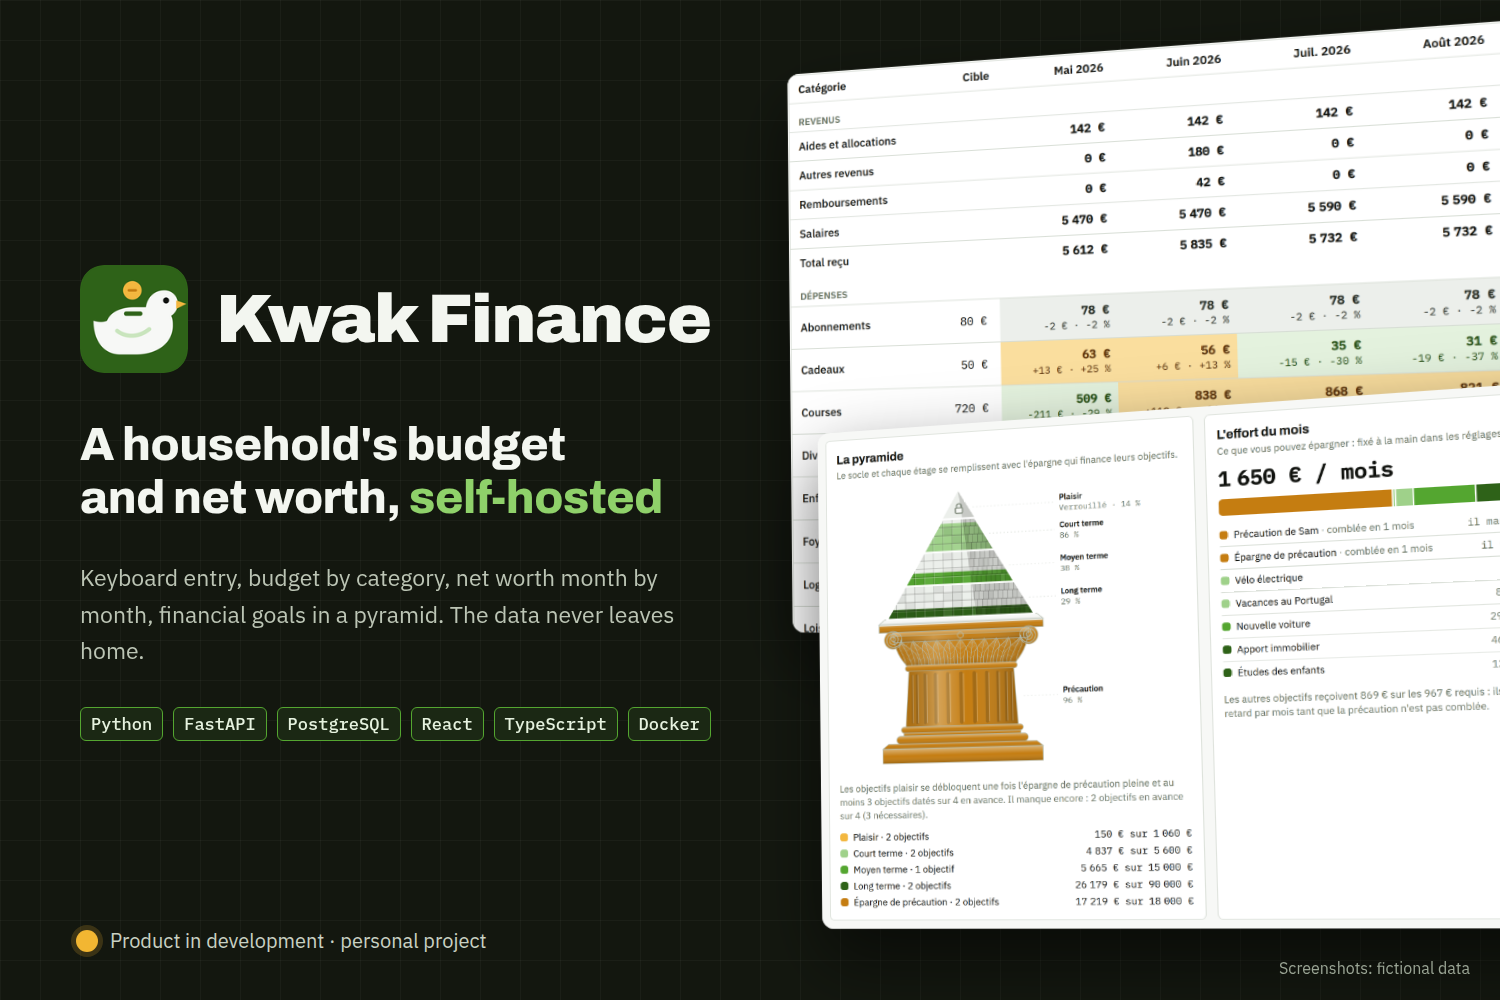
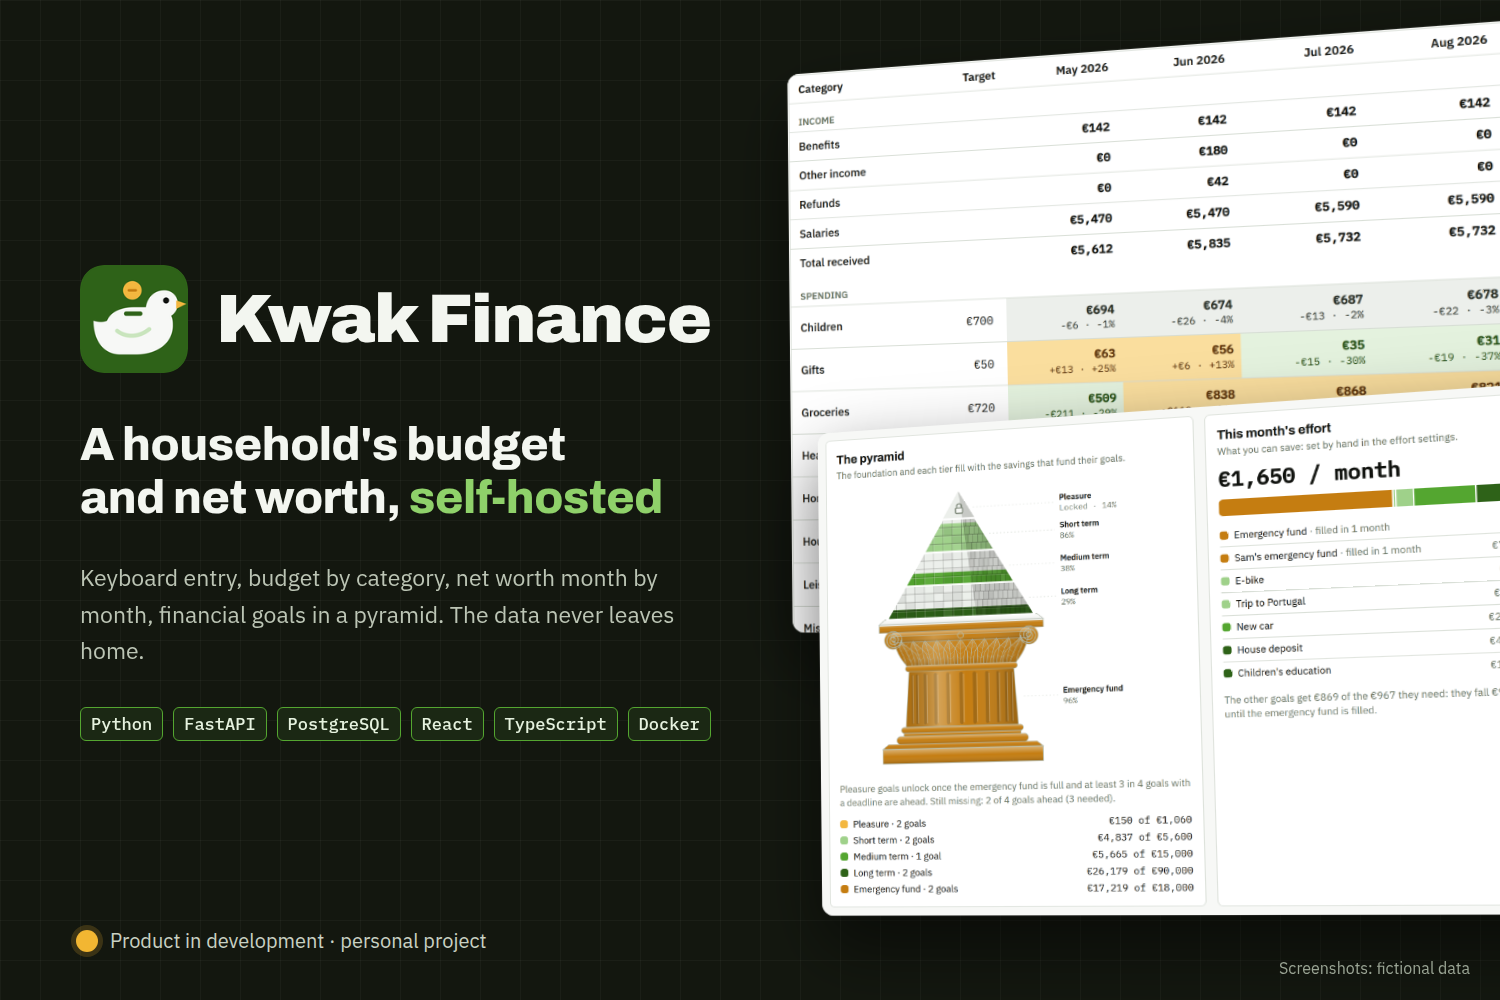
Illustre la fiche Kwak Finance EN avec des captures de l'interface anglaise

diff --git a/content/projects/kwak-finance/index.en.md b/content/projects/kwak-finance/index.en.md
@@ -41,7 +41,7 @@ tests included.
 {{< alert icon="image" >}}
 **Every screenshot shows fictional data.** They come from a demo instance, filled with an
 invented household (Camille and Sam, ten months of spending, two years of net worth, nine goals).
-No amount, label or balance comes from real accounts. The interface is shown in French.
+No amount, label or balance comes from real accounts.
 {{< /alert >}}
 
 ## The problem
@@ -138,7 +138,7 @@ Net worth and goals can then be read at the level of the **household**, the **jo
 **my lines**. The app is arranged in three spaces, **Spending**, **Wealth** and **Goals**; the
 overview, at the top, sums up all three.
 
-![The October overview](vue-ensemble.webp "October for the whole household: net worth and its change, the progress of each tier of the pyramid, then the month's figures. Fictional data.")
+![The October overview](vue-ensemble-en.webp "October for the whole household: net worth and its change, the progress of each tier of the pyramid, then the month's figures. Fictional data.")
 
 ### Quick entry, at the keyboard
 
@@ -146,8 +146,8 @@ The spending space's main page is a **grid**: one month, its lines, every cell e
 An empty row always waits at the bottom; Tab moves to the next cell, Enter saves and opens a new
 row with the same date. Everything works without the mouse.
 
-Above it, a **quick line** takes an expense typed in any order: `boulangerie 12,50 hier`,
-`45 sncf 13/10` or `carrefour 87.40 #foyer`.
+Above it, a **quick line** takes an expense typed in any order: `bakery 12.50 yesterday`,
+`45 train 13/10` or `groceries 87.40 #home`.
 
 - the date is recognised ("yesterday", a weekday, `dd/mm`);
 - the amount is the last number, the others stay in the label;
@@ -155,17 +155,17 @@ Above it, a **quick line** takes an expense typed in any order: `boulangerie 12,
 - the rest is the label, and its category comes from the **label memory**: picking a label
   already used brings back the category of its latest line.
 
-![The spending grid and the quick line](grille.webp "The quick line has understood « cinéma 24,50 vendredi #loisirs » before it is even saved; below, the fixed expenses to confirm, greyed, then the month's lines. Fictional data.")
+![The spending grid and the quick line](grille-en.webp "The quick line has understood “cinema 24.50 friday #leisure” before it is even saved; below, the fixed expenses to confirm, greyed, then the month's lines. Fictional data.")
 
 A header recalls the last line entered and when, and a dot marks it in the grid, to pick up where
 you stopped.
 
-![The end of the grid](derniere-saisie.webp "The green dot marks the last line entered; the empty row waits for the next one, with the same date. Fictional data.")
+![The end of the grid](derniere-saisie-en.webp "The green dot marks the last line entered; the empty row waits for the next one, with the same date. Fictional data.")
 
 A line can also be **split** across several categories: the last part takes the rest, so the sum
 always comes out exact.
 
-![A split line](ventilation.webp "A hypermarket run: €88.51 of groceries, the rest (€36) for the home. Fictional data.")
+![A split line](ventilation-en.webp "A hypermarket run: €88.51 of groceries, the rest (€36) for the home. Fictional data.")
 
 ### Categories of three kinds
 
@@ -186,11 +186,11 @@ back every month, quarter or year. Each occurrence due shows greyed at the top o
 grid. Enter confirms it and creates the line, editable first; it can also be skipped for the
 month. Nothing is ever created by itself.
 
-![The list of fixed expenses](depenses-fixes.webp "Rent, the childminder, subscriptions: each fixed expense with its frequency, day and category. Fictional data.")
+![The list of fixed expenses](depenses-fixes-en.webp "Rent, the childminder, subscriptions: each fixed expense with its frequency, day and category. Fictional data.")
 
 The overview lists what is still to confirm and the **projected rest** at the end of the month.
 
-![Fixed expenses still to confirm](a-confirmer.webp "Three October occurrences still to confirm, and the projected rest once they are paid. Fictional data.")
+![Fixed expenses still to confirm](a-confirmer-en.webp "Three October occurrences still to confirm, and the projected rest once they are paid. Fictional data.")
 
 ### Monthly targets
 
@@ -204,11 +204,11 @@ past months keep theirs. A savings category gets a minimum to reach.
 - **the year**: the targets to date and for the whole year, the gap, and how many months were
   over, on or under target.
 
-![The month so far](mois-en-cours.webp "On 24 October: transport and shopping have overrun their target; the vertical mark shows the share of the month elapsed, and rent, paid in one go, is not judged against the pace. Fictional data.")
+![The month so far](mois-en-cours-en.webp "On 24 October: transport and shopping have overrun their target; the vertical mark shows the share of the month elapsed, and rent, paid in one go, is not judged against the pace. Fictional data.")
 
-![The budget matrix](budget-matrice.webp "Six months of budget: income received at the top, then each category against its target. Green: under; grey: within ±5 %; orange: over. Fictional data.")
+![The budget matrix](budget-matrice-en.webp "Six months of budget: income received at the top, then each category against its target. Green: under; grey: within ±5 %; orange: over. Fictional data.")
 
-![The year view](budget-annee.webp "2026 to date: cumulated target, spent, gap, and how many months were over, on and under target. Fictional data.")
+![The year view](budget-annee-en.webp "2026 to date: cumulated target, spent, gap, and how many months were over, on and under target. Fictional data.")
 
 ### Reports over any period
 
@@ -216,22 +216,22 @@ A month, a quarter, a year or any period up to ten years, compared with the **pr
 the same length**. A running period stops at the current month: "this year" is compared with the
 same months last year, not with a whole year.
 
-![A report's totals and breakdown](rapport.webp "September against August: the totals, then each category with its average, its share and its change. Fictional data.")
+![A report's totals and breakdown](rapport-en.webp "September against August: the totals, then each category with its average, its share and its change. Fictional data.")
 
 A report also gives a monthly chart stacked by category, spending accumulated day by day, and the
 period's **money flows**: income on the left; spending, savings and the unallocated rest on the
 right, both sides always adding up to the same total.
 
-![Spending month by month](rapport-mois.webp "2026 month by month: the six largest categories in colour, the others in grey, against the income line. Fictional data.")
+![Spending month by month](rapport-mois-en.webp "2026 month by month: the six largest categories in colour, the others in grey, against the income line. Fictional data.")
 
-![The year's money flows](rapport-flux.webp "2026's flows: salaries and benefits on the left; each category, savings and the unallocated rest on the right. Fictional data.")
+![The year's money flows](rapport-flux-en.webp "2026's flows: salaries and benefits on the left; each category, savings and the unallocated rest on the right. Fictional data.")
 
 ### Net worth, month by month
 
 Net worth is tracked as in a spreadsheet: one line per holding, filed in a category, one column per
 month, and a value entered by hand once a month.
 
-![The net-worth matrix](patrimoine-matrice.webp "Monthly tracking: net worth, gross assets and debts, then the lines by category and each one's share. Fictional data.")
+![The net-worth matrix](patrimoine-matrice-en.webp "Monthly tracking: net worth, gross assets and debts, then the lines by category and each one's share. Fictional data.")
 
 - a month without a value carries the previous one forward, shown as carried;
 - "Update this month" lists every line with its last value, to enter them all at once;
@@ -241,11 +241,11 @@ month, and a value entered by hand once a month.
 An *Analysis* page gives four charts, each category in its colour. Since ten hues cannot all stay
 apart for every colour-vision deficiency, every chart also keeps its labels and its data table.
 
-![Net worth over time](patrimoine-temps.webp "Categories stacked month by month, debts below zero, and net worth as a line. Fictional data.")
+![Net worth over time](patrimoine-temps-en.webp "Categories stacked month by month, debts below zero, and net worth as a line. Fictional data.")
 
-![Allocation as a sunburst and a mosaic](patrimoine-repartition.webp "October's allocation: categories then lines in the sunburst, one tile per category in the mosaic. Fictional data.")
+![Allocation as a sunburst and a mosaic](patrimoine-repartition-en.webp "October's allocation: categories then lines in the sunburst, one tile per category in the mosaic. Fictional data.")
 
-![What moved net worth](patrimoine-variation.webp "From November 2025 to October 2026, each category's contribution to net worth; the loan being repaid lifts it. Fictional data.")
+![What moved net worth](patrimoine-variation-en.webp "From November 2025 to October 2026, each category's contribution to net worth; the loan being repaid lifts it. Fictional data.")
 
 ### Goals, in a pyramid
 
@@ -261,7 +261,7 @@ arranged in a pyramid, drawn in stone:
   deadline, **locked** until the essentials are in order: the emergency fund full and at least
   three quarters of the goals ahead.
 
-![The goals pyramid and the effort plan](pyramide.webp "The household's pyramid: the emergency fund's column at 96 %, the three tiers, the locked capstone; on the right, the month's effort plan, the emergency fund served first. Fictional data.")
+![The goals pyramid and the effort plan](pyramide-en.webp "The household's pyramid: the emergency fund's column at 96 %, the three tiers, the locked capstone; on the right, the month's effort plan, the emergency fund served first. Fictional data.")
 
 A goal needs nothing more to enter: it is funded by **envelopes**, the part of a net-worth line
 set aside for it. When the line rises, each goal receives its share of the rise; when it falls,
@@ -282,16 +282,16 @@ months, the estimated date at that pace. The month's **effort plan** shares out 
 savings capacity: the emergency fund first, up to an adjustable share, then the other goals by
 their required effort, then the unlocked treats. It is a recommendation: nothing is moved.
 
-![The short-term tier's cards](objectifs-cartes.webp "The short term: two goals ahead, each with its gauge, its pace marker and its estimates. Fictional data.")
+![The short-term tier's cards](objectifs-cartes-en.webp "The short term: two goals ahead, each with its gauge, its pace marker and its estimates. Fictional data.")
 
-![The capstone and its treats](coiffe.webp "The capstone: two treats locked until the essentials are in order. Fictional data.")
+![The capstone and its treats](coiffe-en.webp "The capstone: two treats locked until the essentials are in order. Fictional data.")
 
 Each goal also has its page: its estimates, its trajectory, its envelopes line by line and its
 month-by-month tracking.
 
-![A goal's page](objectif-page.webp "Trip to Portugal: three months ahead; the trajectory shows the values, the expected line and the projection at the current pace. Fictional data.")
+![A goal's page](objectif-page-en.webp "Trip to Portugal: three months ahead; the trajectory shows the values, the expected line and the projection at the current pace. Fictional data.")
 
-![A goal's envelopes and monthly tracking](objectif-enveloppes.webp "Its envelope on the life insurance, then each month: reached, gained, expected and gap. Fictional data.")
+![A goal's envelopes and monthly tracking](objectif-enveloppes-en.webp "Its envelope on the life insurance, then each month: reached, gained, expected and gap. Fictional data.")
 
 ### The goals analysis
 
@@ -309,15 +309,15 @@ month without gain.
   free part;
 - **status month by month** for each goal.
 
-![Required effort against capacity](analyse-effort.webp "Required efforts stacked by goal against the capacity: November 2026 goes over, while Sam's emergency fund fills. Fictional data.")
+![Required effort against capacity](analyse-effort-en.webp "Required efforts stacked by goal against the capacity: November 2026 goes over, while Sam's emergency fund fills. Fictional data.")
 
-![The goals timeline](analyse-frise.webp "Each goal from its start to its deadline: the estimated date at the actual pace (●) and at the plan's pace (◇). Fictional data.")
+![The goals timeline](analyse-frise-en.webp "Each goal from its start to its deadline: the estimated date at the actual pace (●) and at the plan's pace (◇). Fictional data.")
 
-![Horizon and risk](analyse-risque.webp "The e-bike, six months from its deadline, is funded by volatile lines: it falls in the zone to watch. Fictional data.")
+![Horizon and risk](analyse-risque-en.webp "The e-bike, six months from its deadline, is funded by volatile lines: it falls in the zone to watch. Fictional data.")
 
-![Where the goals' money sits](analyse-flux.webp "From categories to lines, then to the goals' envelopes and each line's free part. Fictional data.")
+![Where the goals' money sits](analyse-flux-en.webp "From categories to lines, then to the goals' envelopes and each line's free part. Fictional data.")
 
-![The goals' status month by month](analyse-statut.webp "Each goal's status, month after month. Fictional data.")
+![The goals' status month by month](analyse-statut-en.webp "Each goal's status, month after month. Fictional data.")
 
 Above them, **points to look at**, computed by some fifteen fixed rules: a goal behind for three
 months, an emergency fund too thin or held on volatile lines, a savings account close to its
@@ -326,7 +326,7 @@ postponement that would be enough). Each point gives the facts, the figures, why
 options; never an instruction to buy or sell, nor a named product. Three at most are shown, and
 each member can snooze or dismiss one.
 
-![Points to look at](analyse-points.webp "Three points to look at: an emergency fund covering less than three months of fixed expenses, two near goals funded by volatile lines. Fictional data.")
+![Points to look at](analyse-points-en.webp "Three points to look at: an emergency fund covering less than three months of fixed expenses, two near goals funded by volatile lines. Fictional data.")
 
 ### Verified backups, logged actions
 
@@ -336,7 +336,7 @@ and a written restore procedure.
 An **activity log** keeps sensitive actions, written in the same transaction as the action itself:
 sign-ins, invitations, deletions. The owner sees the whole household, a member their own entries.
 
-![The activity log](journal.webp "Sign-ins (one with a wrong code), an invitation sent then cancelled, settings, a line deleted. Fictional data.")
+![The activity log](journal-en.webp "Sign-ins (one with a wrong code), an invitation sent then cancelled, settings, a line deleted. Fictional data.")
 
 ## How it is built
 
